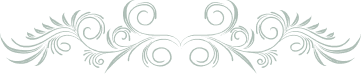
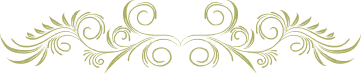
Date page create

diff --git a/src/components/about-left.jsx b/src/components/about-left.jsx
@@ -1,7 +1,7 @@
 import { IoIosArrowForward } from "react-icons/io";
 import { MdLocationOn } from "react-icons/md";
 import React, { useRef } from 'react'
-import oneFlower from "../images/one-flawer.png"
+import oneFlower from "../images/flower-one.png"
 import aboutShape1 from "../images/about-shape1-w.png"
 import aboutShape2 from "../images/about-shape2-w.png"
 import { motion, useInView } from 'framer-motion'
@@ -25,34 +25,34 @@ const AboutLeft = () => {
             ref={ref}
             className={`flex justify-center items-center flex-col`}>
             <div className='flex justify-center min-h-full min-w-full  items-center relative gap-3 flex-col max-w-[500px]'>
-                <img src={aboutShape1} className='absolute top-0' alt="" />
                 <motion.div
                     initial={isInView ? { opacity: 1, y: 0 } : { opacity: 0, y: -20 }}
                     whileInView={{ opacity: 1, y: 0 }}
                     exit={isInView ? { opacity: 1, y: 0 } : { opacity: 0, y: -20 }}
                     transition={{ duration: 1, delay: 2 }}
-                    className='flex justify-center  items-center flex-col px-[15px] lg:px-[20px] my-[10%] py-[20%] shadow-lg'>
-                    <h2 className='text-[18px] sm:text-[20px] md:text-[15px] lg:text-[20px] font-lobster text-[#256155]'>
+                    className='flex justify-center backdrop-blur-md items-center flex-col px-[15px] lg:px-[20px] my-[10%] py-[20%] shadow-lg'>
+                    <h2 className='text-[18px] sm:text-[20px] md:text-[15px] lg:text-[20px] font-lobster text-[#806f00]'>
                         Hu'rmetli miymanlar
                     </h2>
-                    <h3 className='text-[16px] mt-2 sm:text-[20px] md:text-[15px] lg:text-[20px] font-spectral text-[#3a315d] font-bold uppercase text-center'>
+                    <h3 className='text-[16px] mt-2 sm:text-[20px] md:text-[15px] lg:text-[20px] font-spectral text-[#48491d] font-bold uppercase text-center'>
                         Sizlerdi ulimiz Marlen ha'm kelinimiz Kamilanin' u'yleniw toyina mirat etemiz
                     </h3>
                     <img className='max-w-[150px] max-h-[150px]' src={oneFlower} alt="" />
-                    <p className='text-[16px] md:text-[15px] lg:text-[20px] font-spectral font-bold text-[#3a315d]'>Toy ku'ni</p>
-                    <p className='text-[18px] sm:text-[20px] md:text-[15px] lg:text-[20px] font-lobster text-[#256155]'>16-mart 2023-jil</p>
-                    <h2 className='text-[16px] mt-6 md:text-[15px] lg:text-[20px] font-spectral font-bold text-[#3a315d]'>
+                    <p className='text-[16px] md:text-[15px] lg:text-[20px] font-spectral font-bold text-[#48491d]'>Toy ku'ni</p>
+                    <p className='text-[18px] sm:text-[20px] md:text-[15px] lg:text-[20px] font-lobster text-[#806f00]'>16-mart 2023-jil</p>
+                    <h2 className='text-[16px] mt-6 md:text-[15px] lg:text-[20px] font-spectral font-bold text-[#48491d]'>
                         Ma'ka'n Jayimiz
                     </h2>
                     <div onClick={handleOpen}>
-                        <p className='text-[18px] sm:text-[20px] md:text-[15px] lg:text-[20px] font-lobster text-[#256155] text-center'>Nokis qalasi Sultan Saray toyxanasi</p>
-                        <div className='flex justify-center items-center text-indigo-900 cursor-pointer hover:underline transition duration-75'>
+                        <p className='text-[18px] sm:text-[20px] md:text-[15px] lg:text-[20px] font-lobster text-[#806f00] text-center'>Nokis qalasi Sultan Saray toyxanasi</p>
+                        <div className='flex justify-center items-center text-indigo-400 cursor-pointer hover:underline transition duration-75'>
                             <MdLocationOn />
                             <p className='text-center font-mont font-semibold'>kartadan ko'riw</p>
                             <IoIosArrowForward />
                         </div>
                     </div>
                 </motion.div>
+                <img src={aboutShape1} className='absolute top-0' alt="" />
                 <img src={aboutShape2} className='absolute bottom-0' alt="" />
                 <DialogDefault open={open} handleOpen={handleOpen} />
             </div>

diff --git a/src/Layout/LayoutPages/Question.jsx b/src/Layout/LayoutPages/Question.jsx
@@ -1,46 +1,27 @@
 import { Button, Radio } from '@material-tailwind/react'
 import React, { useRef } from 'react'
 import Container from '../../components/container'
-import { motion, useInView } from 'framer-motion'
+
+import QuestionLeft from '../../components/question-left'
+import QuestionTimeRight from '../../components/question-time-right'
 
 const Question = () => {
-    const ref = useRef(null);
-    const isInView = useInView(ref, { once: true });
     return (
-        <motion.div
-            initial={isInView ? { opacity: 1, y: 0 } : { opacity: 0, y: 20 }}
-            whileInView={{ opacity: 1, y: 0 }}
-            exit={isInView ? { opacity: 1, y: 0 } : { opacity: 0, y: 20 }}
-            transition={{ duration: 1, delay: 1 }}
-            ref={ref}>
+        <div>
             <Container>
-                <div className='flex justify-center mb-[20px]'>
-                    <div className='border-[1px] flex flex-col gap-[20px] p-4 max-w-[500px]'>
-                        <div>
-                            <h2 className='text-[20px] text-center sm:text-[25px] md:text-[25px] lg:text-[25px] font-lobster text-[#256155]'>Anketa</h2>
-                            <p className='text-[16px] mt-2 sm:text-[20px] md:text-[15px] lg:text-[20px] font-spectral text-[#3a315d] font-bold uppercase text-center'>
-                                Anketani toldiriwin'izdi soraymiz, Bul biz ushin ju'da ahimiyetli
-                            </p>
+                <div className='flex justify-center my-[20px] gap-3 flex-col'>
+                    <div className='flex-[1] flex justify-center items-center'>
+                        <QuestionLeft />
+                    </div>
+                    <div className='flex-[1.5] flex flex-col justify-center gap-2 items-center'>
+                        <div className='mt-[20px]'>
+                            <h2 className='text-[20px] text-center sm:text-[25px] md:text-[25px] lg:text-[25px] font-lobster text-[#48491d]'>Toyg'a qaldi</h2>
                         </div>
-                        <div className=''>
-                            <p className='text-[15px] mt-2 font-mont text-[#256155] font-semibold'>Atin'iz</p>
-                            <input type="text" className='border-b-2 w-full border-[#558c81] focus:border-[#135a4c] py-1 outline-none font-bold text-[#3a315d] font-spectral text-20px' />
-                        </div>
-                        <div>
-                            <p className='text-[15px] mt-2 font-mont text-[#256155] font-semibold'>Toyg'a kele alasizba</p>
-                            <div className="flex  flex-col">
-                                <Radio color='teal' name="type" label="Albette baraman" ripple={true} />
-                                <Radio color='teal' name="type" label="Jubayim menen birge baraman" ripple={true} />
-                                <Radio color='teal' name="type" label="Tilekke qarsi bara almayman" ripple={true} />
-                            </div>
-                        </div>
-                        <div className='flex justify-end'>
-                            <Button color='teal' size='sm' className='text-[12px] font-mont rounded-sm'>Jiberiw</Button>
-                        </div>
+                        <QuestionTimeRight />
                     </div>
                 </div>
             </Container>
-        </motion.div>
+        </div>
     )
 }
 

diff --git a/src/components/question-left.jsx b/src/components/question-left.jsx
@@ -1,0 +1,43 @@
+import { Button, Radio } from '@material-tailwind/react'
+import React, { useRef } from 'react'
+import {motion, useInView} from "framer-motion"
+
+const QuestionLeft = () => {
+    const ref = useRef(null);
+    const isInView = useInView(ref, { once: true });
+    return (
+        <motion.div
+            initial={isInView ? { opacity: 1, y: 0 } : { opacity: 0, y: 20 }}
+            whileInView={{ opacity: 1, y: 0 }}
+            exit={isInView ? { opacity: 1, y: 0 } : { opacity: 0, y: 20 }}
+            transition={{ duration: 1, delay: 1 }}
+            ref={ref}
+            >
+            <div className='border-[1px] shadow-md flex flex-col gap-[20px] p-4 max-w-[800px]'>
+                <div>
+                    <h2 className='text-[20px] text-center sm:text-[25px] md:text-[25px] lg:text-[25px] font-lobster text-[#806f00]'>Anketa</h2>
+                    <p className='text-[16px] mt-2 sm:text-[20px] md:text-[15px] lg:text-[20px] font-spectral text-[#48491d] font-bold uppercase text-center'>
+                        Anketani toldiriwin'izdi soraymiz, Bul biz ushin ju'da ahimiyetli
+                    </p>
+                </div>
+                <div className=''>
+                    <p className='text-[15px] mt-2 font-mont text-[#48491d] font-semibold'>Atin'iz</p>
+                    <input type="text" className='border-b-2 w-full border-[#65661f] focus:border-[#3c3d13] py-1 outline-none font-bold text-[#48491d] font-spectral text-20px' />
+                </div>
+                <div>
+                    <p className='text-[15px] mt-2 font-mont text-[#48491d] font-semibold'>Toyg'a kele alasizba</p>
+                    <div className="flex  flex-col">
+                        <Radio color='brown' name="type" label="Albette baraman" ripple={true} />
+                        <Radio color='brown' name="type" label="Jubayim menen birge baraman" ripple={true} />
+                        <Radio color='brown' name="type" label="Tilekke qarsi bara almayman" ripple={true} />
+                    </div>
+                </div>
+                <div className='flex justify-end'>
+                    <Button size='sm' className='text-[12px] font-mont rounded-sm bg-[#a88c30]'>Jiberiw</Button>
+                </div>
+            </div>
+        </motion.div>
+    )
+}
+
+export default QuestionLeft

diff --git a/src/components/question-time-right.jsx b/src/components/question-time-right.jsx
@@ -1,0 +1,33 @@
+import React from 'react'
+import frameDate from "../images/frame-date.png"
+
+const QuestionTimeRight = () => {
+  return (
+    <div className='w-full bg-[#917927] p-[10px]'>
+        <div className='flex  justify-around items-center border-[1px] relative p-[10px] text-white'>
+            <img src={frameDate} className='max-w-[30px] md:max-w-[40px] absolute top-0 left-0' alt="" />
+            <img src={frameDate} className='max-w-[30px] md:max-w-[40px] absolute top-0 right-0 rotate-90' alt="" />
+            <img src={frameDate} className='max-w-[30px] md:max-w-[40px] absolute bottom-0 left-0 -rotate-90' alt="" />
+            <img src={frameDate} className='max-w-[30px] md:max-w-[40px] absolute bottom-0 right-0 rotate-180' alt="" />
+            <div className='flex justify-center items-center sm:gap-1 flex-col w-full'>
+                <h3 className='text-[30px] sm:text-[40px] lg:text-[50px] font-mont sm:font-bold'>13</h3>
+                <p className='font text-[12px] sm:text-[15px] text-mont'>ku'n</p>
+            </div>
+            <div className='flex justify-center items-center sm:gap-1 flex-col border-l-[1px] w-full'>
+                <h3 className='text-[30px] sm:text-[40px] lg:text-[50px] font-mont sm:font-bold'>02</h3>
+                <p className='font text-[12px] sm:text-[15px] text-mont'>saat</p>
+            </div>
+            <div className='flex justify-center items-center sm:gap-1 flex-col border-l-[1px] w-full'>
+                <h3 className='text-[30px] sm:text-[40px] lg:text-[50px] font-mont sm:font-bold'>14</h3>
+                <p className='font text-[12px] sm:text-[15px] text-mont'>minut</p>
+            </div>
+            <div className='flex justify-center items-center sm:gap-1 flex-col border-l-[1px] w-full'>
+                <h3 className='text-[30px] sm:text-[40px] lg:text-[50px] font-mont sm:font-bold'>35</h3>
+                <p className='font text-[12px] sm:text-[15px] text-mont'>sekund</p>
+            </div>
+        </div>
+    </div>
+  )
+}
+
+export default QuestionTimeRight

diff --git a/src/components/open-dialog.jsx b/src/components/open-dialog.jsx
@@ -13,13 +13,13 @@ export function DialogDefault({open, handleOpen}) {
         <>
             <Dialog open={open} handler={handleOpen} size="lg" className="rounded-[5px]">
                 <DialogHeader className="pt-[15px] justify-center flex-col">
-                    <p className="text-[16px] md:text-[15px] lg:text-[20px] font-spectral font-bold text-[#3a315d]t">Ma'ka'n jayimiz</p>
+                    <p className="text-[16px] md:text-[15px] lg:text-[20px] font-spectral font-bold text-[#878910]">Ma'ka'n jayimiz</p>
                 </DialogHeader>
                 <DialogBody className="px-[10px] py-0">
                 <iframe src="https://www.google.com/maps/embed?pb=!1m18!1m12!1m3!1d735.8520909454235!2d59.61169705332601!3d42.46160794982637!2m3!1f0!2f0!3f0!3m2!1i1024!2i768!4f13.1!3m3!1m2!1s0x41dd9b5158c4eab7%3A0xc31c1270105980d3!2sSultan%20Saray!5e0!3m2!1sen!2s!4v1700116749578!5m2!1sen!2s" width="100%" className="max-h-[50vh] min-h-[50vh] border-[2px] rounded-sm" loading="lazy"></iframe>
                 </DialogBody>
                 <DialogFooter>
-                    <Button variant="filled" className="border-none outline-none rounded-sm text-[15px] px-[20px]" size="sm" color="teal" onClick={handleOpen}>
+                    <Button variant="filled" className="border-none outline-none rounded-sm text-[15px] px-[20px] bg-[#878910]" size="sm" onClick={handleOpen}>
                         <span>OK</span>
                     </Button>
                 </DialogFooter>

diff --git a/src/Layout/LayoutPages/AboutParent.jsx b/src/Layout/LayoutPages/AboutParent.jsx
@@ -1,0 +1,23 @@
+import React from 'react'
+import Container from '../../components/container'
+
+const AboutParent = () => {
+    return (
+        <div className='mb-[40px]'>
+            <Container>
+                <div className='flex justify-center items-center flex-col'>
+                    <div className='mt-[20px]'>
+                        <h2 className='text-[20px] text-center sm:text-[25px] md:text-[25px] lg:text-[25px] font-spectral font-bold text-[#48491d]'>Toy iyeleri</h2>
+                    </div>
+                    <div>
+                        <h2 className='text-[30px] text-center sm:text-[35px] md:text-[35px] lg:text-[35px] font-lobster text-[#c4a43b]'>
+                            Jaras-Gu'lnur
+                        </h2>
+                    </div>
+                </div>
+            </Container>
+        </div>
+    )
+}
+
+export default AboutParent

diff --git a/src/components/home-left.jsx b/src/components/home-left.jsx
@@ -12,7 +12,7 @@ const HomeLeft = () => {
       transition={{ duration: 1, delay: 3 }}
       className='flex justify-center items-center gap-[20px] flex-col'>
       <img src={homeShape1} className="max-w-[full] sm:max-w-[200px] md:max-w-[300px]  max-h-[100px]" />
-      <h1 className="font-pattaya text-[40px] sm:text-[35px] md:text-[45px] lg:text-[60px] text-[#1c1a40]">Marlen <span className="text-red-600">&</span> Kamila</h1>
+      <h1 className="font-pattaya text-[40px] sm:text-[35px] md:text-[45px] lg:text-[60px] text-[#1c1a40]">Marlen <span className="text-[#cd9b1b]">&</span> Kamila</h1>
       <p className='font-mont text-[20px] sm:text-[15px] md:text-[20px] text-[#1c1a40]'>16.06.2023</p>
       <img src={homeShape2} className="max-w-[full] sm:max-w-[200px] md:max-w-[300px] max-h-[100px]" />
     </motion.div>

diff --git a/src/Layout/LayoutPages/About.jsx b/src/Layout/LayoutPages/About.jsx
@@ -2,11 +2,14 @@ import React from 'react'
 import Container from '../../components/container'
 import AboutRight from '../../components/about-right'
 import AboutLeft from '../../components/about-left'
+import aboutBg from "../../images/about-bg.jpg"
 
 
 const About = () => {
   return (
-    <div className='min-h-[600px] relative'>
+    <div 
+    className={"bg-[#ffffc3] overflow-hidden min-h-[600px] relative"}
+    >
       <Container>
         <div className='flex my-[20px] flex-col md:flex-row gap-2'>
           <div className='sm:flex-[1]'>

diff --git a/src/Layout/LayoutPages/Header.jsx b/src/Layout/LayoutPages/Header.jsx
@@ -6,7 +6,7 @@ const Header = () => {
         <div className='min-h-[70px] absolute top-0 left-0 w-full flex justify-between items-center'>
             <Container>
                 <div className="font-lobster text-[25px] sm:text-[30px] text-slate-700">
-                    My<span className='text-red-600'>Love</span>
+                    My<span className='text-[#c97f1d]'>Love</span>
                 </div>
             </Container>
         </div>

diff --git a/src/Layout/Layout.jsx b/src/Layout/Layout.jsx
@@ -5,6 +5,7 @@ import About from './LayoutPages/About'
 import { motion } from 'framer-motion'
 import { Spinner } from '@material-tailwind/react';
 import Question from './LayoutPages/Question';
+import AboutParent from './LayoutPages/AboutParent';
 
 
 
@@ -31,6 +32,7 @@ const Layout = () => {
         <Home />
         <About />
         <Question/>
+        <AboutParent/>
       </motion.div>
     </div>
 
